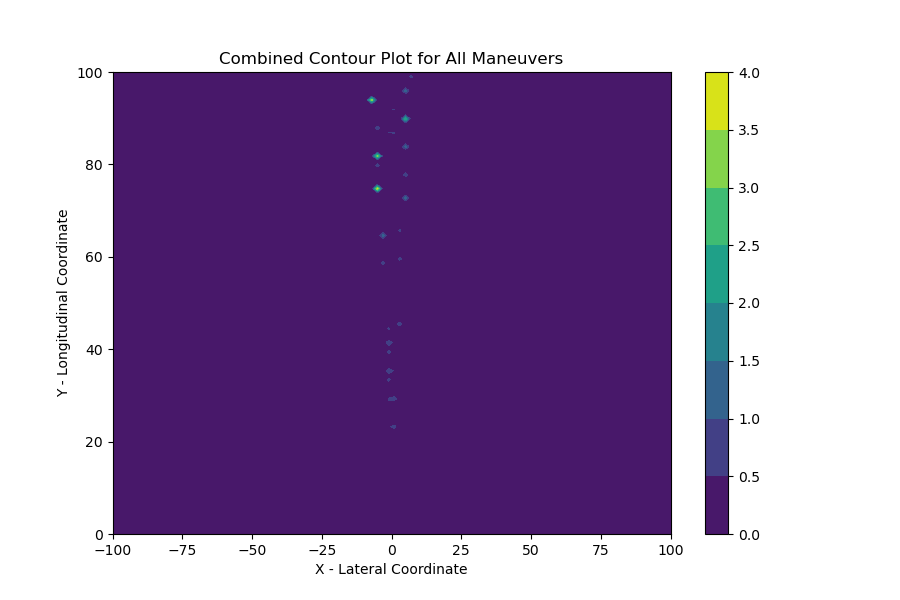
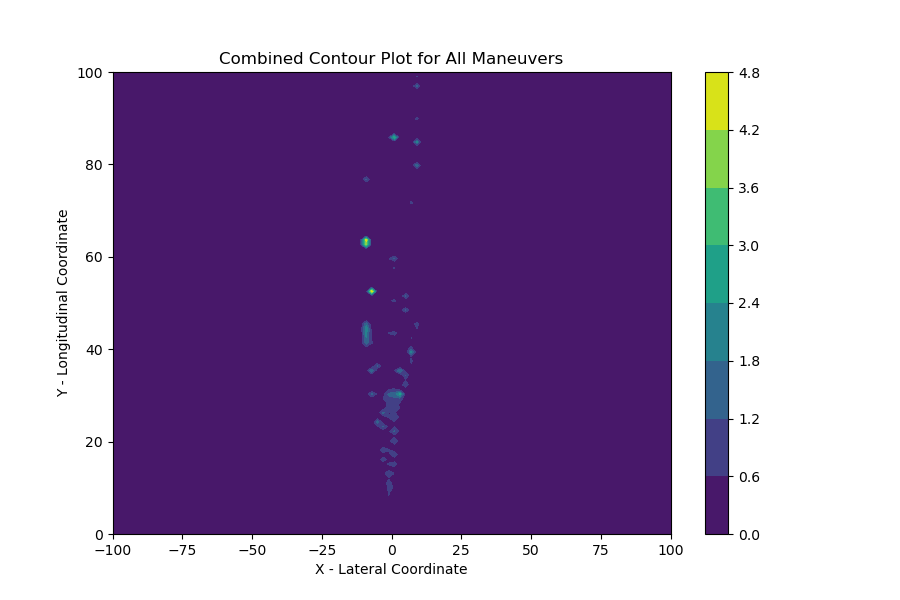
adding until overpass

diff --git a/conv-social-pooling/codes/Louis_Trajectory_Prediction.py b/conv-social-pooling/codes/Louis_Trajectory_Prediction.py
@@ -270,19 +270,25 @@ def plot_pred_trajectories(input_data, overpass_start_loc,overpass_end_loc, lane
             axs[0].set_xlabel('Time')
             axs[0].set_ylabel('X Location')
             axs[0].legend()
-
-            axs[0].plot(after_overpass_data['time'], after_overpass_data['xloc'], label=f'Trajectory ID {temp_ID}')
-            axs[0].set_title('X Locations over Time')
-            axs[0].set_xlabel('Time')
-            axs[0].set_ylabel('X Location')
-            axs[0].legend()
-            
-            # Plot y locations
-            axs[1].plot(after_overpass_data['time'], after_overpass_data['yloc'], label=f'Trajectory ID {temp_ID}')
+    
+            axs[1].plot(until_overpass_data['time'], until_overpass_data['yloc'], label=f'Trajectory ID {temp_ID}')
             axs[1].set_title('Y Locations over Time')
             axs[1].set_xlabel('Time')
             axs[1].set_ylabel('Y Location')
             axs[1].legend()
+
+            # axs[0].plot(after_overpass_data['time'], after_overpass_data['xloc'], label=f'Trajectory ID {temp_ID}')
+            # axs[0].set_title('X Locations over Time')
+            # axs[0].set_xlabel('Time')
+            # axs[0].set_ylabel('X Location')
+            # axs[0].legend()
+            
+            # # Plot y locations
+            # axs[1].plot(after_overpass_data['time'], after_overpass_data['yloc'], label=f'Trajectory ID {temp_ID}')
+            # axs[1].set_title('Y Locations over Time')
+            # axs[1].set_xlabel('Time')
+            # axs[1].set_ylabel('Y Location')
+            # axs[1].legend()
 
             # Plot predictive mean locations for each maneuver
             colors = ['red', 'green', 'blue', 'purple', 'orange','yellow']  
@@ -334,6 +340,8 @@ def predict_trajectories(input_data, overpass_start_loc,overpass_end_loc, lane, 
     end_time = start_time + delta # we are going to check for 5 seconds from start time
     stat_time_frame = np.arange(start_time,end_time, 0.1) 
     print(f'Analyze from {start_time} -> {end_time} seconds')
+
+    until_overpass = input_data[input_data['time'] <= start_time] # trajectories up to the starting position of overpass
     ###########################################################################################################################
     
     for temp_ID in IDs_to_traverse: # for each trajectory ID 
@@ -354,14 +362,17 @@ def predict_trajectories(input_data, overpass_start_loc,overpass_end_loc, lane, 
         current_data = possible_trajectories[possible_trajectories['ID'] == temp_ID] # extract the current trajectory data
         current_data = current_data[(start_time <= current_data['time']) & (current_data['time'] <= end_time)] # make sure it is given within the boundaries  
         
+        until_overpass_data = until_overpass[until_overpass['ID'] == temp_ID]
+
         if len(current_data) != 0: # we don't want any empty trajectories 
             print(f"possible traj time: {current_data['time']} here")
             # print('current') 
             # print(current_data)
             # print('length of traj after overpass',len(current_data))
 
-            min_x = min(current_data['xloc'].values)
-            # min_y = min(current_data['yloc'].values)
+            min_x = min(until_overpass_data['xloc'].values)
+            min_y = min(until_overpass_data['yloc'].values)
+
             traj_time = [round(t-start_time,1) for t in current_data['time']] # adjust the trajectory time frame 
             # print('traj time',traj_time)
            
@@ -388,10 +399,10 @@ def predict_trajectories(input_data, overpass_start_loc,overpass_end_loc, lane, 
                     for i in range(0,len(current_data)-1): # Loop through each segment in current_data
                         x1, y1 = current_data.iloc[i][['xloc', 'yloc']] # get the (x1,y1) coordinates
                         x2, y2 = current_data.iloc[i + 1][['xloc', 'yloc']] # get the (x2,y2) coordinates
-                        # x1 -= min_x # Adjust the x1 position for the line integral calculation 
-                        # y1 -= min_y # Adjust the x2 position for the line integral calculation 
-                        # x2 -= min_x # Adjust the y1 position for the line integral calculation 
-                        # y2 -= min_y # Adjust the y2 position for the line integral calculation 
+                        x1 -= min_x # Adjust the x1 position for the line integral calculation 
+                        y1 -= min_y # Adjust the x2 position for the line integral calculation 
+                        x2 -= min_x # Adjust the y1 position for the line integral calculation 
+                        y2 -= min_y # Adjust the y2 position for the line integral calculation 
 
                         # print(f'first: {(x1,y1)}') # Just for checking 
                         # print(f'second: {(x2,y2)}') # Just for checking 
@@ -592,7 +603,7 @@ def main(): # Main function
                 fut_pred_np.append(fut_pred_np_point)
 
             fut_pred_np = np.array(fut_pred_np) # convert the fut pred points into numpy
-            # trajectory,predicted_traj = predict_trajectories(original_data, overpass_start_loc,overpass_end_loc,lane,fut_pred_np,i,delta) # where the function is called and I feed in maneurver pred and future prediction points         
+            trajectory,predicted_traj = predict_trajectories(original_data, overpass_start_loc,overpass_end_loc,lane,fut_pred_np,i,delta) # where the function is called and I feed in maneurver pred and future prediction points         
             trajectory,predicted_traj = plot_pred_trajectories(original_data, overpass_start_loc,overpass_end_loc,lane,fut_pred_np,i,delta)
             
             if i == 0: # Generate and save the distribution plots just for one trajectory
